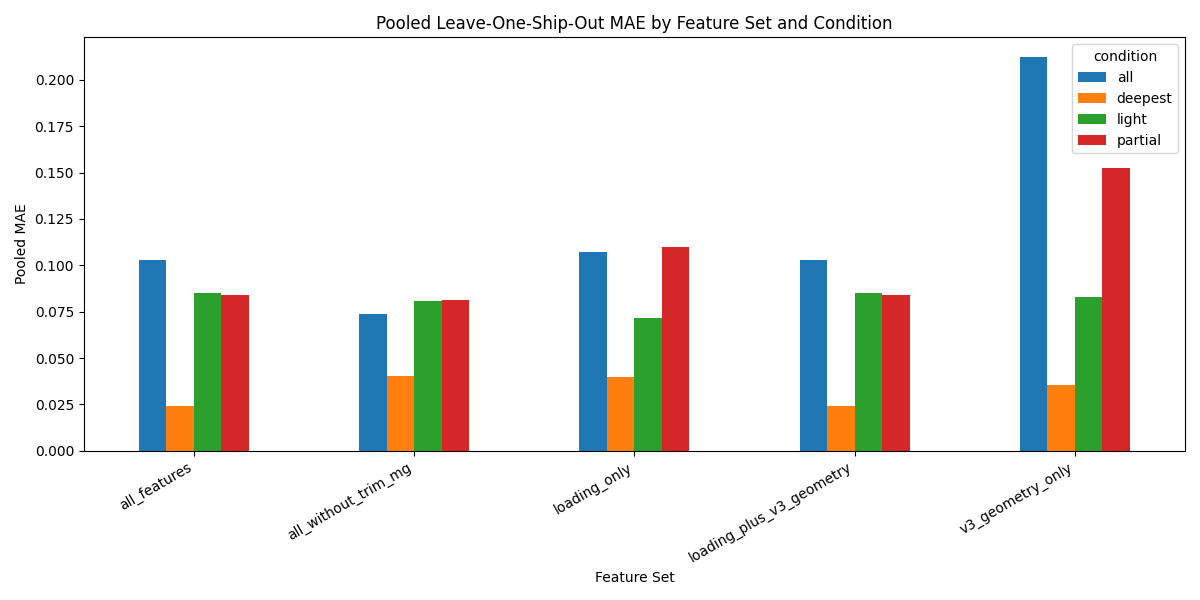
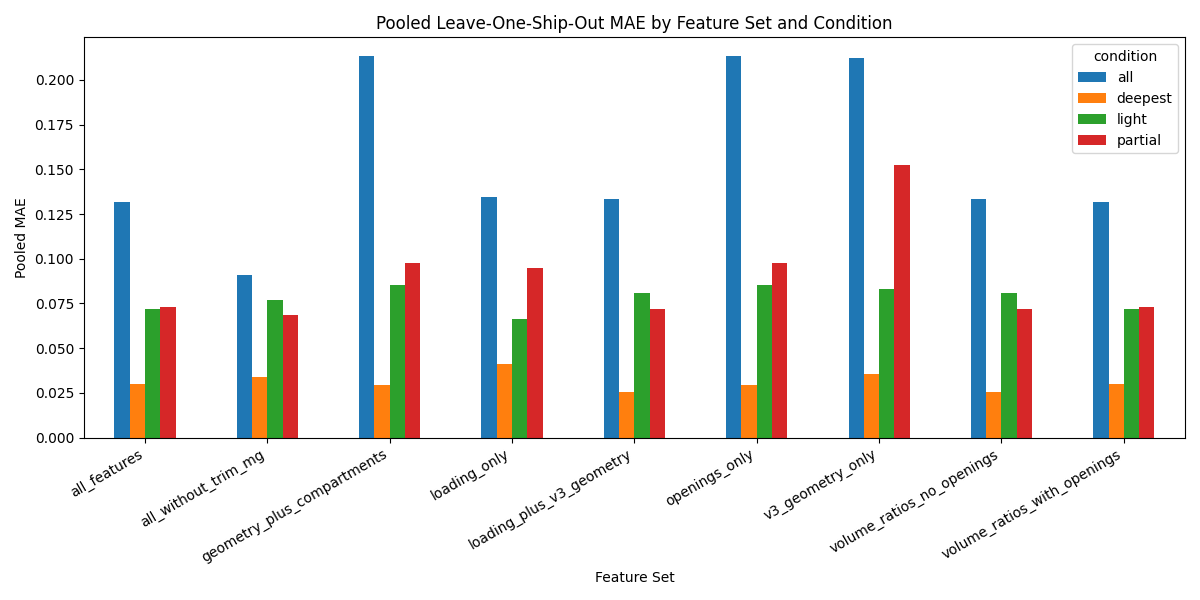
all diagnostic plots

diff --git a/src/diagnostics/feature_diagnostic.py b/src/diagnostics/feature_diagnostic.py
@@ -27,7 +27,6 @@ group_col = "ship_id"
 
 feature_groups = {
     "loading_features": [
-        "condition_code",
         "trim",
         "mg",
         "vcg",
@@ -192,7 +191,6 @@ feature_sets = {
     ),
     "all_without_trim_mg": (
         [
-            "condition_code",
             "vcg",
             "draft_over_depth",
             "displacement_per_length",
@@ -285,8 +283,7 @@ def evaluate_leave_one_ship_out(df, features, target, group_col):
 
     if not importances_df.empty:
         importances_df = (
-            importances_df
-            .groupby("feature", as_index=False)
+            importances_df.groupby("feature", as_index=False)
             .agg(
                 mean_importance=("importance", "mean"),
                 std_importance=("importance", "std"),
@@ -424,9 +421,7 @@ if not importance_summary_df.empty:
             plt.xlabel("Mean Random Forest Importance")
             plt.ylabel("Feature")
             plt.tight_layout()
-            plt.savefig(
-                condition_dir / f"feature_importance_{set_name}.png"
-            )
+            plt.savefig(condition_dir / f"feature_importance_{set_name}.png")
             plt.close()
 
 

diff --git a/src/models/random_forest_baseline.py b/src/models/random_forest_baseline.py
@@ -115,7 +115,7 @@ class RandomForestBaseline(object):
             feature_cols (list[str]):
                 A list of all the columns the model is using as features to train on.
         """
-        with open("models/model.pkl", "wb") as file:
+        with open("models/model_partial.pkl", "wb") as file:
             pickle.dump(
                 {
                     "model_type": "Random Forest Regressor",
@@ -440,8 +440,8 @@ class RandomForestBaseline(object):
 
 if __name__ == "__main__":
     random_forest_model = RandomForestBaseline(
-        path_to_config="src/models/config.yaml",
-        path_to_data="data/all_ships_v7.csv",
+        path_to_config="config.yaml",
+        path_to_data="data/all_ships_v8_partial.csv",
     )
     random_forest_model.train()
     random_forest_model.evaluate(print_results=True, save_best_model=True)
